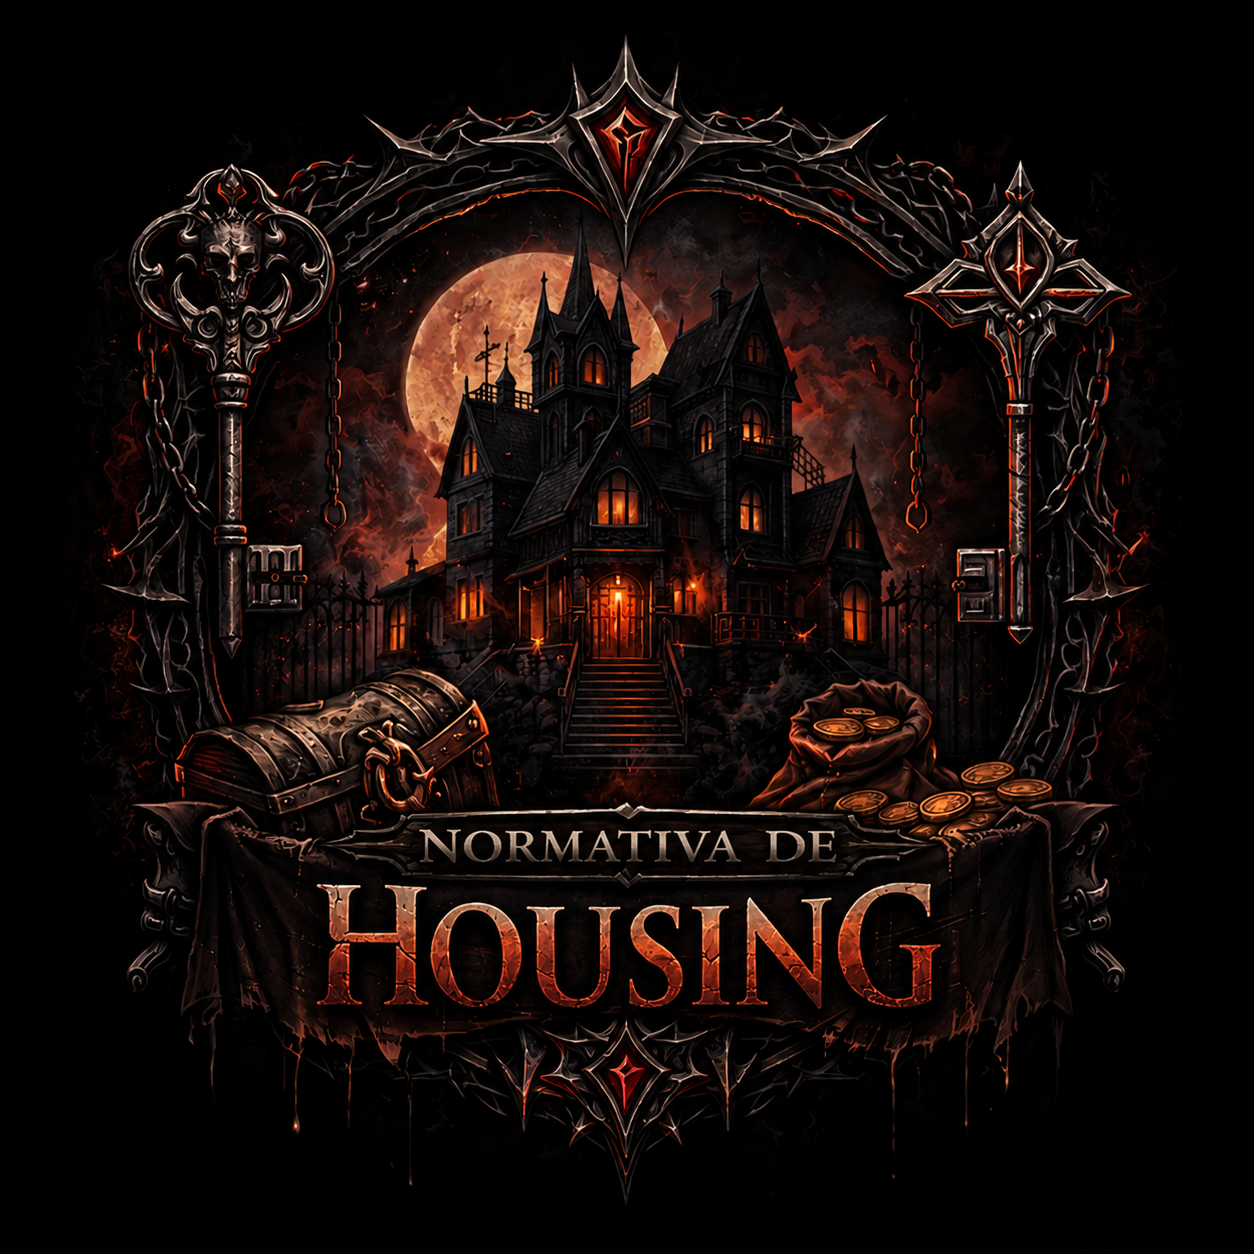
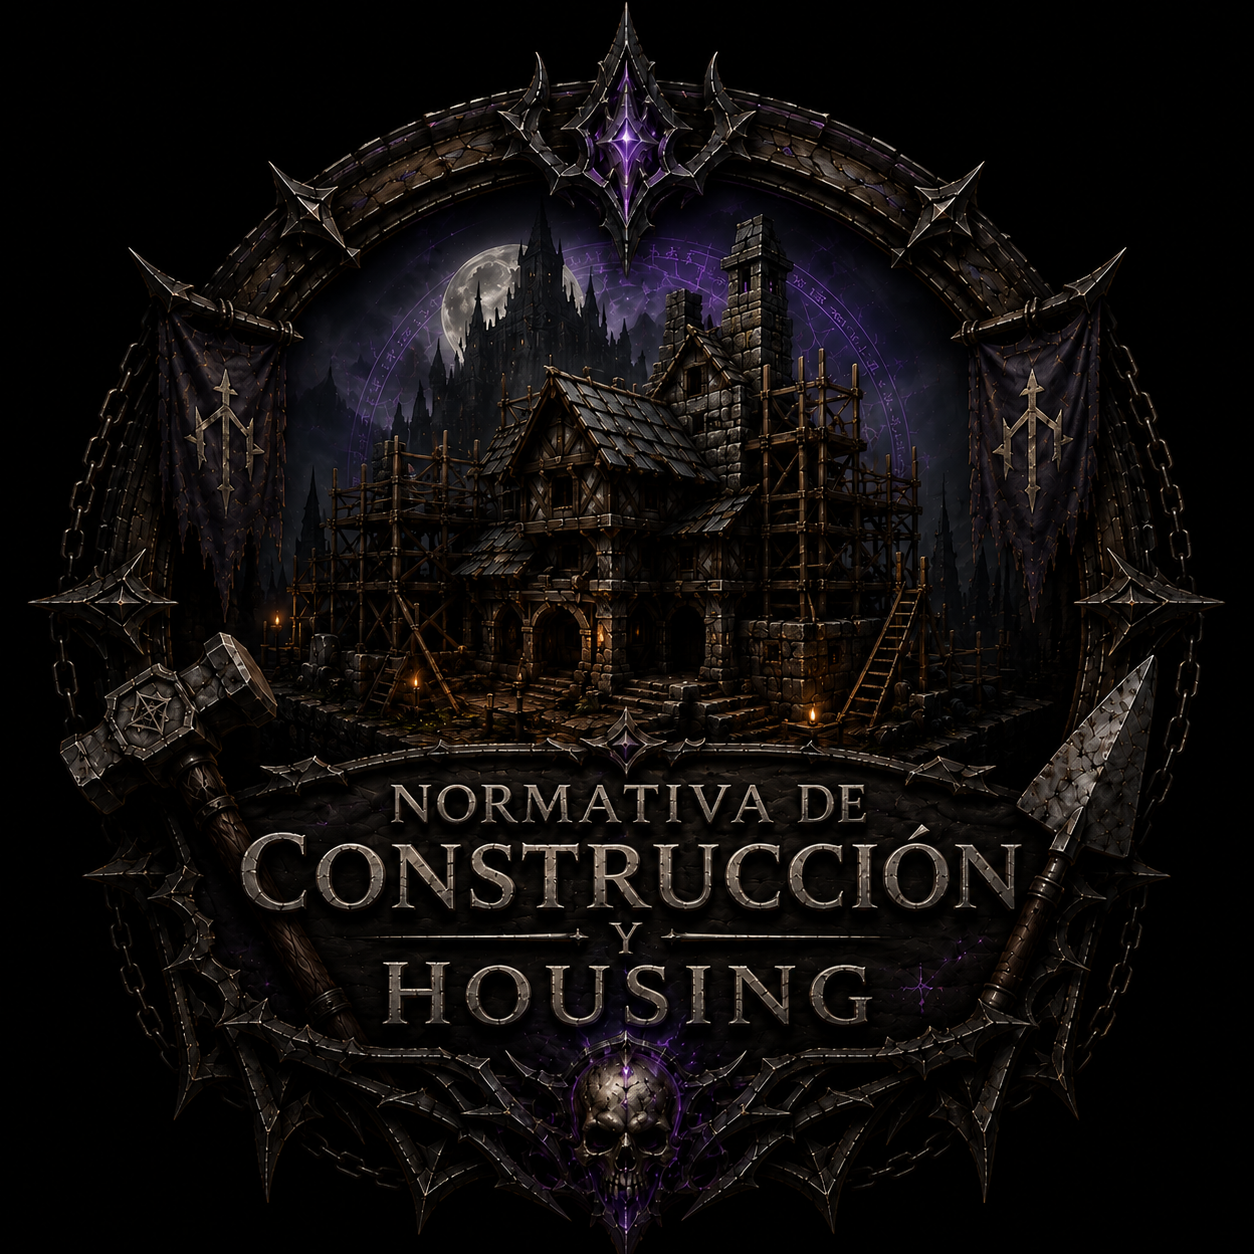
Housing introducido

Changed region(s): [[0.0311, 0.0, 0.9641, 0.9952]]

diff --git a/src/data/normativa.js b/src/data/normativa.js
@@ -565,13 +565,213 @@ export const normativaData = {
     sections: [],
   },
   housing: {
-    title: 'Normativa de Housing',
-    subtitle: 'Leyes de edificación y propiedad',
+    title: 'Normativa de Construcción y Housing',
+    subtitle: 'Vivienda y Asentamientos',
     introImage: '/assets/images/Normativa/Housing.png',
     introGlow: '#e7732bff',
-    breadcrumb: 'Vivienda',
-    intro: `<blockquote class="norm-quote">Sección en construcción. Próximamente se detallará la normativa correspondiente.</blockquote>`,
-    sections: [],
+    breadcrumb: 'Housing',
+    intro: `<blockquote class="norm-quote">Para mantener el servidor equilibrado, evitar sobrecargas innecesarias y permitir que todos los jugadores puedan disfrutar de sus espacios, se establecen las siguientes normas. No buscamos limitar tu creatividad, sino fomentar un entorno justo y funcional.<br/><br/>
+    <strong>Nota de Lore:</strong> En esta season, las viviendas por el mapa están restringidas. Debido a la situación actual, no es seguro vivir fuera de las ciudades por las constantes amenazas del entorno.</blockquote>`,
+    sections: [
+      {
+        label: 'Vivienda y Asentamientos',
+        type: 'cards',
+        cards: [
+          {
+            num: '01',
+            title: 'Asentamientos Seguros',
+            icon: 'castle-flag',
+            text: '<strong>¿Dónde puedo adquirir una vivienda segura?</strong><br/><br/>Actualmente existen asentamientos protegidos para individuos o clanes:<br/><br/>• Azimra<br/>• Ash’torin<br/>• Ashbourne<br/>• Skalford',
+            severity: 1
+          },
+          {
+            num: '02',
+            title: 'Vivienda Exterior',
+            icon: 'mountains',
+            text: '<strong>¿Se puede vivir fuera de las ciudades?</strong><br/><br/>Sí, pero no es inmediato. Se requiere utilizar el <strong>Sistema de Conquista</strong> para convertir cuadrantes en zonas "seguras" antes de construir.',
+            severity: 2
+          },
+          {
+            num: '03',
+            title: '¿Cómo adquirir una casa?',
+            icon: 'scroll-unfurled',
+            text: 'Para adquirir una casa en la ciudad, sigue estos pasos:<br/><br/>1. Acércate al asentamiento de la guardia más cercano.<br/>2. Habla con el censista, quien notificará al staff.<br/><br/><strong>Impuestos:</strong><br/>Tras la primera semana, se pagará un tributo semanal:<br/>• Desde 1 hasta 30 platas.<br/>• Según el tamaño del clan.',
+            severity: 1,
+            fullWidth: true
+          }
+        ]
+      },
+      {
+        label: 'Reglas Básicas de Construcción',
+        type: 'cards',
+        cards: [
+          {
+            num: 'A',
+            title: 'Responsabilidad',
+            icon: 'hand',
+            text: 'Evita bloquear grandes extensiones de terreno. El espacio es compartido.',
+            severity: 1
+          },
+          {
+            num: 'B',
+            title: 'Rendimiento (Lag)',
+            icon: 'lightning-bolt',
+            text: 'Prioriza lámparas sin fuego animado y evita exceso de decoraciones con movimiento para mantener estables los FPS.',
+            severity: 2
+          },
+          {
+            num: 'C',
+            title: 'Limpieza',
+            icon: 'repair',
+            text: 'Prohibido dejar "basura visual" (petates, mesas sueltas o fogatas abandonadas). Si no lo usas, elimínalo.',
+            severity: 1
+          },
+          {
+            num: 'D',
+            title: 'Zonas Públicas',
+            icon: 'interdiction',
+            text: 'No se puede construir cerca de ciudades, zonas de farmeo o caravaneros sin justificación de rol y permiso previo.',
+            severity: 3
+          }
+        ]
+      },
+      {
+        label: 'Límites de Construcción (Caps)',
+        type: 'info',
+        icon: 'book',
+        title: 'Límites de Construcción (Caps)',
+        text: `Para asegurar la estabilidad del entorno, se establecen los siguientes límites:<br/><br/>
+        <table style="width: 100%; border-collapse: collapse; margin-top: 1rem; color: rgba(212, 201, 176, 0.85); font-size: 0.95rem;">
+          <tr style="border-bottom: 1px solid rgba(201, 168, 76, 0.2);">
+            <th style="text-align: left; padding: 0.5rem;">Concepto</th>
+            <th style="text-align: center; padding: 0.5rem;">Límite por Jugador</th>
+            <th style="text-align: center; padding: 0.5rem;">Aumento por Miembro</th>
+            <th style="text-align: center; padding: 0.5rem;">Máximo de Clan (12+ miemb.)</th>
+          </tr>
+          <tr style="border-bottom: 1px solid rgba(255, 255, 255, 0.05);">
+            <td style="padding: 0.5rem;">Piezas de construcción</td>
+            <td style="text-align: center; padding: 0.5rem;">350 piezas</td>
+            <td style="text-align: center; padding: 0.5rem;">+100 piezas</td>
+            <td style="text-align: center; padding: 0.5rem;">1.450 piezas</td>
+          </tr>
+          <tr>
+            <td style="padding: 0.5rem;">Objetos (Placeables)</td>
+            <td style="text-align: center; padding: 0.5rem;">100 objetos</td>
+            <td style="text-align: center; padding: 0.5rem;">+50 objetos</td>
+            <td style="text-align: center; padding: 0.5rem;">700 objetos</td>
+          </tr>
+        </table>`,
+      },
+      {
+        label: 'Fundación de Asentamientos Exteriores',
+        type: 'process',
+        steps: [
+          { label: '1. Completar el proceso de conquista del lugar.', icon: 'crossed-swords' },
+          { label: '2. Obtener permiso de la guardia local o del Consejo de la Capital.', icon: 'gavel' },
+          { label: '3. Pagar 2 platas por miembro al momento de la fundación (y por cada civil que se una después).', icon: 'gold-bar' },
+        ],
+        introText: 'Los grupos que deseen fundar su propia base fuera de la capital deben seguir estos pasos:'
+      },
+      {
+        label: 'Restricciones Estéticas',
+        type: 'cards',
+        cards: [
+          {
+            num: '01',
+            title: 'Estilo',
+            icon: 'eyeball',
+            text: 'Evitar casas "cubo". La construcción debe ser coherente con el entorno de rol.',
+            severity: 1
+          },
+          {
+            num: '02',
+            title: 'Arenisca',
+            icon: 'large-hammer',
+            text: 'No se permite como material definitivo (solo uso temporal).',
+            severity: 2
+          },
+          {
+            num: '03',
+            title: 'Cimientos',
+            icon: 'tower',
+            text: 'Prohibido el "stackeo" o apilado de cimientos para fortificar (genera carga innecesaria).',
+            severity: 3
+          },
+          {
+            num: '04',
+            title: 'Templos',
+            icon: 'skull',
+            text: 'No está permitida su construcción por jugadores.',
+            severity: 4
+          }
+        ]
+      },
+      {
+        label: 'Adicionales y Mejoras',
+        type: 'cards',
+        cards: [
+          {
+            num: 'ra-compass',
+            title: 'Marca en el mapa',
+            icon: 'compass',
+            text: '50 platas (Pago único).',
+            severity: 1
+          },
+          {
+            num: 'ra-horseshoe',
+            title: 'Caravanero',
+            icon: 'fa-caravan',
+            text: '3 oros (Pago único) + 20 platas de mantenimiento semanal.',
+            severity: 2
+          },
+          {
+            num: 'ra-expand',
+            title: 'Expansión',
+            icon: 'large-hammer',
+            text: '50 platas por cada +100 piezas de construcción (Mejora única, no incluye decoración).',
+            severity: 1,
+            fullWidth: true
+          }
+        ]
+      },
+      {
+        label: 'Rol de Entorno (Guardias/Trabajadores)',
+        type: 'cards',
+        introText: 'Funciones y Limitaciones',
+        cards: [
+          {
+            num: 'ra-scroll-unfurled',
+            title: 'Contrato y Costes',
+            icon: 'scroll-unfurled',
+            text: 'Se pueden contratar mediante Contrato de trabajadores:<br/><br/>• 2 oros por unidad.<br/>• Máximo 5 por asentamiento.<br/>• ToT Basic.',
+            severity: 1,
+            fullWidth: true
+          },
+          {
+            num: '✅',
+            title: 'Sí pueden:',
+            icon: 'shield',
+            text: '• Reducir enemigos (captura).<br/>• Expulsar invasores mediante combate roleado.<br/>• Trasladar presos.<br/>• Defender pasivamente en eventos PvE.',
+            severity: 1
+          },
+          {
+            num: '❌',
+            title: 'No pueden:',
+            icon: 'interdiction',
+            text: '• Matar.<br/>• Escuchar conversaciones.<br/>• Avisar de enemigos si el clan está ausente.',
+            severity: 3
+          },
+          {
+            num: '!',
+            title: 'Beneficio de Defensa',
+            icon: 'knight-helmet',
+            text: 'En caso de PvP-E en territorio registrado, el líder del clan recibe un Turno de Ambiente adicional al final del combate.',
+            severity: 2,
+            fullWidth: true
+          }
+        ]
+      }
+    ]
   },
   general: {
     title: 'Normativa General de Rol',

diff --git a/src/pages/NormPage.jsx b/src/pages/NormPage.jsx
@@ -1,6 +1,7 @@
 import { useNavigate } from 'react-router-dom'
 import { normativaData } from '../data/normativa'
 import Footer from '../components/Footer'
+import { FaCaravan, FaUserShield } from 'react-icons/fa6'
 
 const NORM_SLUGS = new Set(['general', 'housing', 'esclavitud'])
 
@@ -9,6 +10,11 @@ const SEVERITY_CLASS = {
   2: 'norm-card-v2--sev2',
   3: 'norm-card-v2--sev3',
   4: 'norm-card-v2--sev4',
+}
+
+const REACT_ICONS = {
+  'fa-caravan': <FaCaravan />,
+  'fa-user-shield': <FaUserShield />
 }
 
 export default function NormPage({ slug }) {
@@ -67,7 +73,9 @@ export default function NormPage({ slug }) {
             )}
 
             {section.type === 'process' ? (
-              <div className="norm-process-timeline">
+              <div className="norm-process-wrap">
+                {section.introText && <p className="norm-section-intro-text">{section.introText}</p>}
+                <div className="norm-process-timeline">
                 {section.steps.map((step, spi) => (
                   <div key={spi} className="norm-process-step">
                     <div className="norm-process-step__icon">
@@ -79,6 +87,7 @@ export default function NormPage({ slug }) {
                     />
                   </div>
                 ))}
+                </div>
               </div>
             ) : section.type === 'info' ? (
               <div className="norm-info-block">
@@ -89,7 +98,9 @@ export default function NormPage({ slug }) {
                 </div>
               </div>
             ) : (
-              <div className="norm-cards-grid-v2">
+              <div className="norm-cards-wrap">
+                {section.introText && <p className="norm-section-intro-text">{section.introText}</p>}
+                <div className="norm-cards-grid-v2">
                 {section.cards.map((card, ci) => {
                   const sevClass = card.severity ? SEVERITY_CLASS[card.severity] || '' : ''
                   const warnClass = card.warning && !card.severity ? ' norm-card-v2--warning' : ''
@@ -103,7 +114,11 @@ export default function NormPage({ slug }) {
                       <div className="norm-card-v2__header">
                         {card.icon && (
                           <div className="norm-card-v2__icon">
-                            <i className={`ra ra-${card.icon}`} aria-hidden="true" />
+                            {REACT_ICONS[card.icon] ? (
+                              REACT_ICONS[card.icon]
+                            ) : (
+                              <i className={`ra ra-${card.icon}`} aria-hidden="true" />
+                            )}
                           </div>
                         )}
                         {card.num && (
@@ -122,6 +137,7 @@ export default function NormPage({ slug }) {
                     </div>
                   )
                 })}
+                </div>
               </div>
             )}
           </div>

diff --git a/src/styles/global.css b/src/styles/global.css
@@ -7103,6 +7103,14 @@ body.modal-active .audio-toggle {
   color: var(--gold);
 }
 
+.norm-section-intro-text {
+  font-family: 'EB Garamond', serif;
+  font-size: 1.1rem;
+  color: rgba(212, 201, 176, 0.8);
+  margin-bottom: 2rem;
+  text-align: center;
+}
+
 /* Info Alert Blocks */
 .norm-info-block {
   background: rgba(12, 10, 8, 0.72);
@@ -8236,14 +8244,14 @@ body.modal-active .audio-toggle {
   gap: 16px;
   padding: 80px 0;
   color: var(--text-muted);
-  opacity: 0.45;
+
 }
 
 .galeria-empty i,
 .galeria-empty .ra {
-  font-size: 2.5rem;
+  font-size: 3.5rem;
   color: var(--gold);
-  opacity: 0.4;
+
 }
 
 .galeria-empty p {

diff --git a/src/pages/Galeria.jsx b/src/pages/Galeria.jsx
@@ -491,8 +491,8 @@ export default function Galeria() {
           </div>
         ) : photos.length === 0 ? (
           <div className="galeria-empty">
-            <i className="ra ra-scroll " aria-hidden />
-            <p>No hay fotos en esta categoria todavia.</p>
+            <i className="ra ra-parchment" aria-hidden />
+            <p>No hay fotos todavia. Sé el primero en subir una</p>
             {user && <button className="galeria-upload-btn" onClick={() => setShowUpload(true)}>
               Sé el primero en subir una
             </button>}
